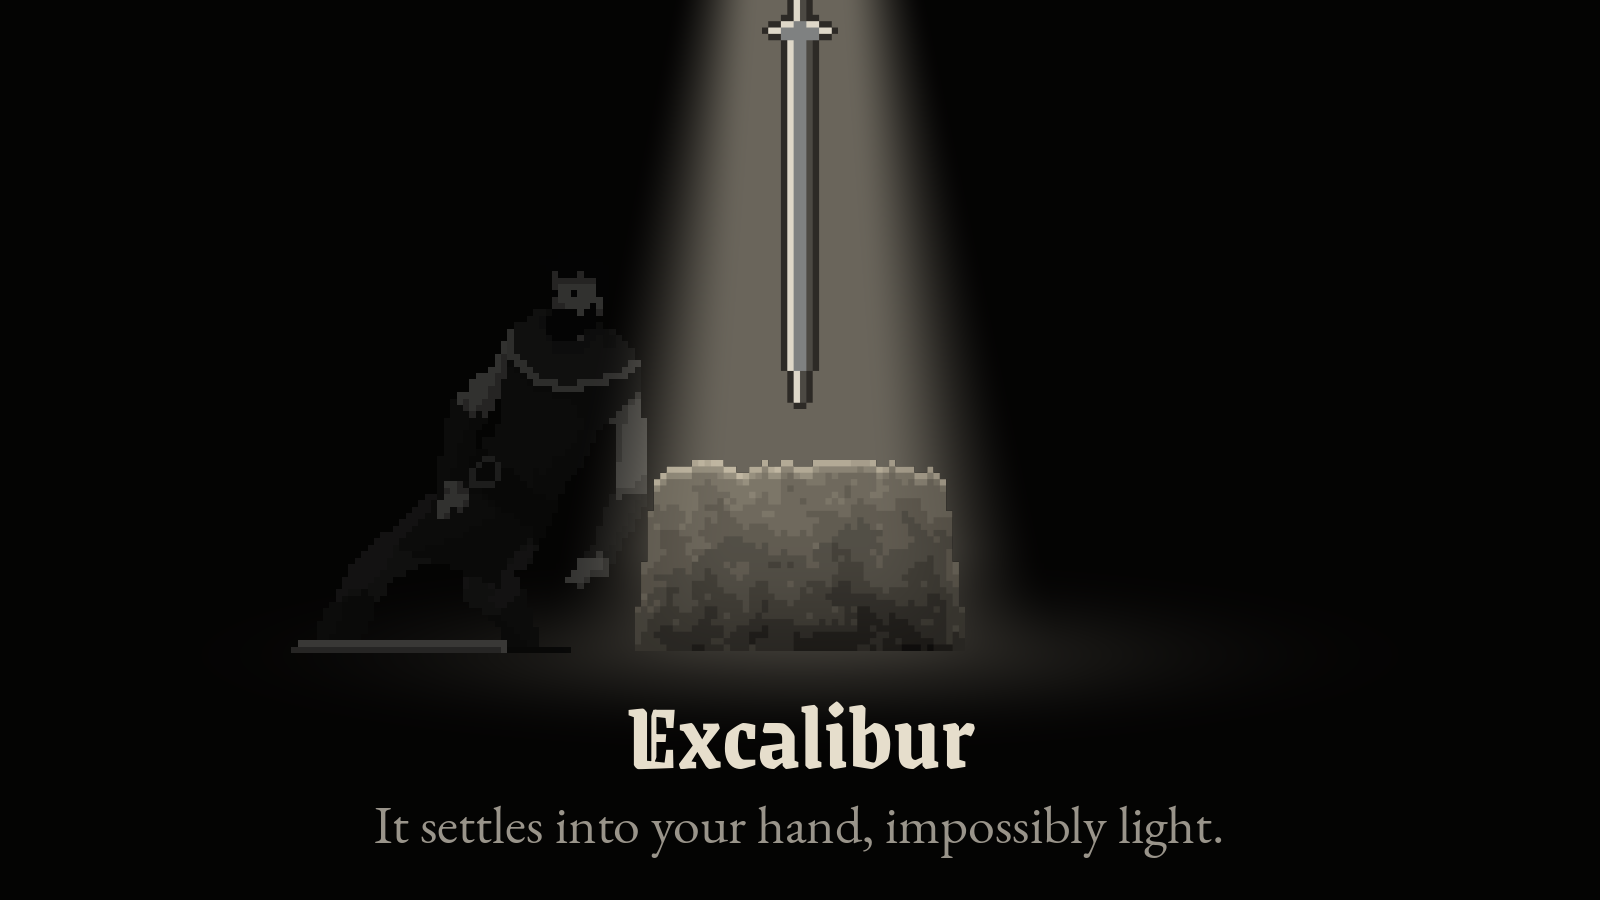
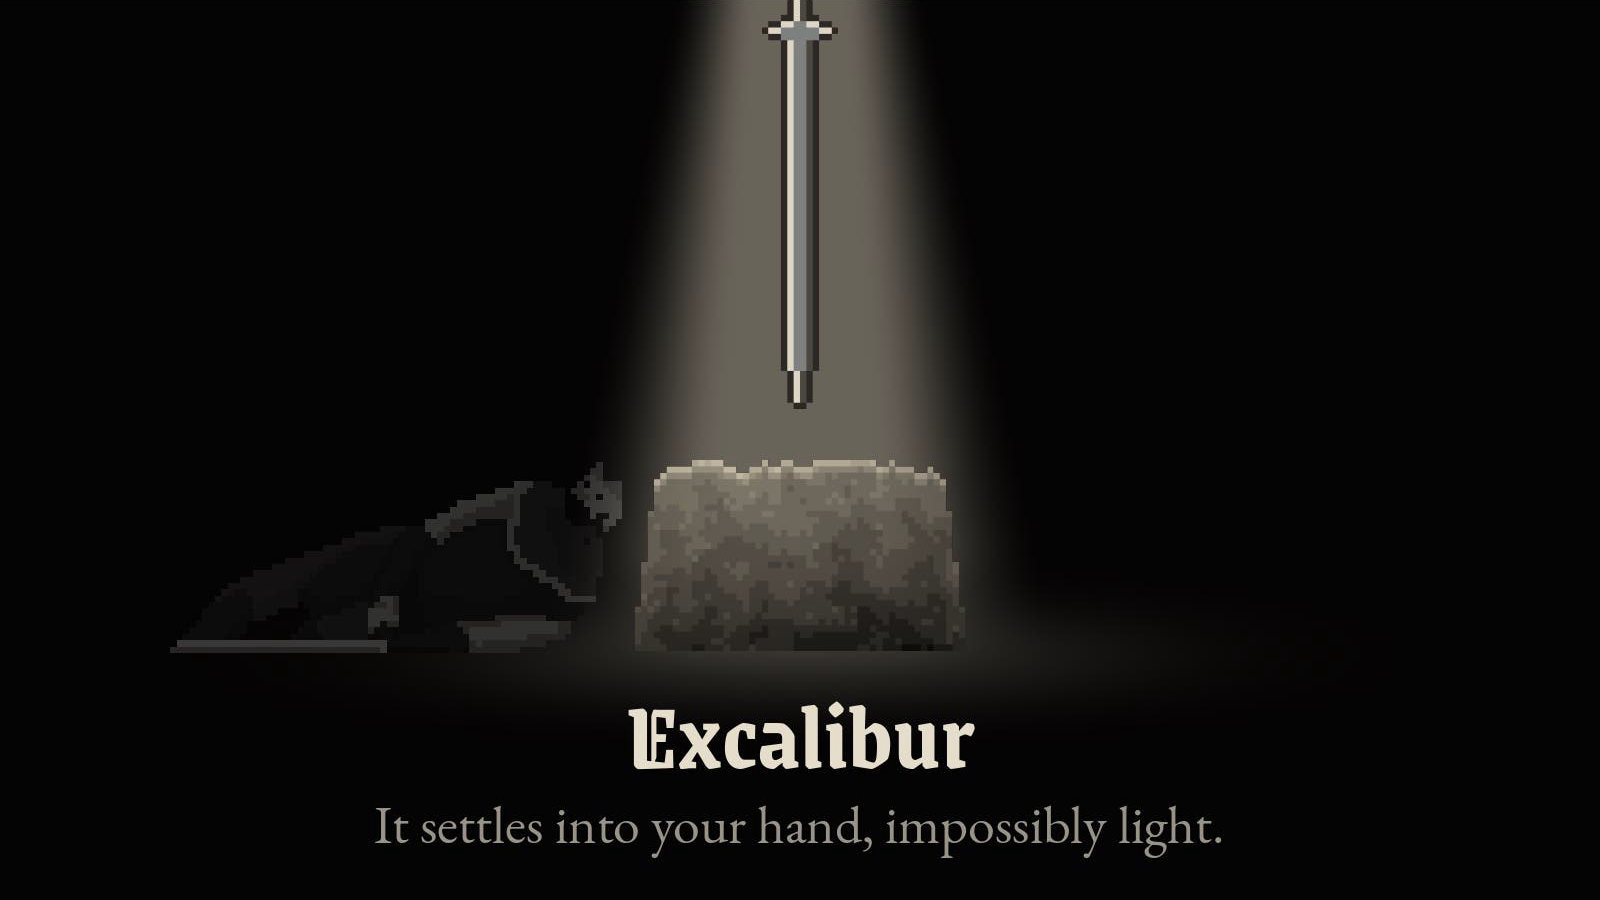
Open the front page on a turn of the game
The page opened on a still of the Sword in the Stone, which says nothing about what kind of game this is. It now opens on one turn of a fight: a card carries Passion into Blazing, the numbers across the hand change, and the foes act. Further down, a hand of four attacks steps through every tier, the pledge's two new elites stand ringed on the map, and Sir Caedmon's first bar breaks. The Sword in the Stone moves under the description of a run, its guardian now lying beaten at its foot. The two fights are set up for the camera, and their captions say so.

The images are sized for a phone, 3.3 MB together, and each caption sits with its image. The second paragraph names who makes the game, and the four files to open first now head the engineering section, where a reader looking for the code arrives.

diff --git a/README.md b/README.md
@@ -2,15 +2,14 @@
 
 **A narrative roguelike deckbuilder where your Passion, not your morality, decides who you become.**
 
+![One turn of a fight: an attack dragged onto a man-at-arms carries Passion into Blazing, a second attack lands, End Turn, the two foes act, and a new hand is dealt](screenshots/turn.gif)\
+*One turn from a set-up fight: Passion starts at 47 and the hand is chosen. The first card carries the player's Passion into Blazing, and the numbers on the other attacks change with it.*
+
 Camelot has no king, and the devices are fading from its shields. You play a keeper, sent in to preserve what is left. The cards you play move your Passion toward one of the keeper's two selves, and the self you lean into decides which cards hit harder and which you are offered next.
 
-Mythworn is in development at [Oddseed Games](https://oddseedgames.com), a one-person studio, and is built in Godot 4.4 and GDScript. There is no download yet. For now it can only be run from its code, in the Godot editor, as [Run it](#run-it) describes.
+Mythworn is made by me, Maliik Bryan, at [Oddseed Games](https://oddseedgames.com), a one-person studio, in Godot 4.4 and GDScript. The design and the writing are mine, and so is the code, which I build with AI coding tools and check with the tools described under [Engineering](#engineering). There is no download yet. For now it can only be run from its code, in the Godot editor, as [Run it](#run-it) describes.
 
 Follow the game at [mythworn.com](https://mythworn.com) or on [Discord](https://discord.gg/cyk9Q74pYn). How it is built: [the architecture notes](docs/ARCHITECTURE.md).
-
-![Excalibur, drawn from the stone](screenshots/excalibur.png)
-
-*The Sword in the Stone waits at the centre of every Camelot map. Draw it or leave it: the run remembers either.*
 
 ## The game
 
@@ -21,11 +20,21 @@ A run in the current build is one act of Camelot.
 - **Combat.** It is turn-based card play: three energy, a hand of five, and enemies that show what they intend to do.
 - **The story.** Between fights it is written by hand: events that remember what you chose earlier, a questline that crosses the map, and relics that have lost their names until a place that keeps records reads them back.
 
+![Excalibur drawn from the stone, its guardian lying beaten at the foot](screenshots/excalibur.png)\
+*The Sword in the Stone waits at the centre of every Camelot map. Draw it or leave it: the run remembers either.*
+
 ## Engineering
 
 In plain terms: the same starting number, called a seed, always produces the same map and the same encounters, so a result can be reproduced and two versions of the code can be compared. Every change is checked by more than 700 automated tests. A separate checker catches content that points at something that does not exist. More than a quarter of the code in this repository is this testing and checking code.
 
 [docs/ARCHITECTURE.md](docs/ARCHITECTURE.md) covers the structure, what each decision cost and what is still rough.
+
+### Four files to open first
+
+- [scripts/autoloads/rng_manager.gd](scripts/autoloads/rng_manager.gd): the streams, 57 lines
+- [scripts/core/combat_engine.gd](scripts/core/combat_engine.gd): the rules of a fight
+- [tools/content_linter.gd](tools/content_linter.gd): the rules and their self-test
+- [tools/harness_combat.gd](tools/harness_combat.gd): the planner and its forward model
 
 ### Deterministic runs
 
@@ -47,13 +56,6 @@ Content names other content by id: an event awards a title, a quest names its pa
 
 `tools/roster_test` makes more than 700 assertions against the enemies, cards, relics, titles and maps the game itself builds, with no screen loaded.
 
-### Four files to open first
-
-- [scripts/autoloads/rng_manager.gd](scripts/autoloads/rng_manager.gd): the streams, 57 lines
-- [scripts/core/combat_engine.gd](scripts/core/combat_engine.gd): the rules of a fight
-- [tools/content_linter.gd](tools/content_linter.gd): the rules and their self-test
-- [tools/harness_combat.gd](tools/harness_combat.gd): the planner and its forward model
-
 ## Design
 
 ### Passion, not morality
@@ -65,6 +67,9 @@ Five tiers sit along it: Hollow, Wavering, Steady, Inspired and Blazing. Two thi
 - **Damage.** Attacks from the self you lean into hit harder, by 12% at a leaning tier and 25% at an extreme, and attacks from the other self hit softer by the same amount.
 - **Rewards.** The cards you are offered come from that self's pool: two of three at an extreme, one of three at a leaning tier, none at Steady.
 
+![A hand of four attacks as Passion moves from Steady up to Blazing and down to Hollow; every number changes at each tier](screenshots/passion_tiers.gif)\
+*A chosen hand stepped through each tier. Tidal Strike (Water) grows as the player's Passion climbs toward Blazing, Rampage and Devastating Blow (Physical) as it falls toward Hollow, and Everything I Carried Out either way.*
+
 ### Two selves, one deck
 
 Each keeper has two card pools, one for each self, and shares a generic pool. Neither self is the good one. Each stands for some good and some bad in the keeper. Because Passion decides what you are offered, the deck you finish with is a record of who you were for most of the run.
@@ -72,6 +77,9 @@ Each keeper has two card pools, one for each self, and shares a generic pool. Ne
 ### A realm set before you walk it
 
 A realm's state is decided in a short story scene before its map exists. In Camelot that is the pledge. It produces one `RealmConfig` (enemy strength, the count of elites, shop prices, reward rarity, a starting boon, a Passion shift and your standing with court and folk), which shapes the map and which fights, shops and events read for the rest of the act.
+
+![The Camelot map just after the pledge, two of its nodes ringed where fights have become elites](screenshots/pledge_map.png)\
+*Standing with the court: two fights on the map become elites before the player's first step.*
 
 ### Titles instead of equipment
 
@@ -82,6 +90,9 @@ There is no equipment. A keeper wears up to two titles, and each is earned by so
 The game is in development. This repository holds the demo slice: one act of Camelot and one keeper, playable from the title screen to Sir Caedmon. It has about 60 cards, more than 40 relics, 20 enemies, 11 titles, 11 consumables, three companions, and 11 written events beside the questline and set-piece scenes.
 
 The numbers have not had their balance pass. The sprites and the sound are stand-ins: CC0 art put through the bake tools in `tools/`, and synthesised placeholder audio.
+
+![Sir Caedmon's first health bar breaks: he falls, begs, and gets up again](screenshots/caedmon_break.gif)\
+*Break Sir Caedmon's first bar and he begs. Then he gets up anyway.*
 
 ## Run it
 
